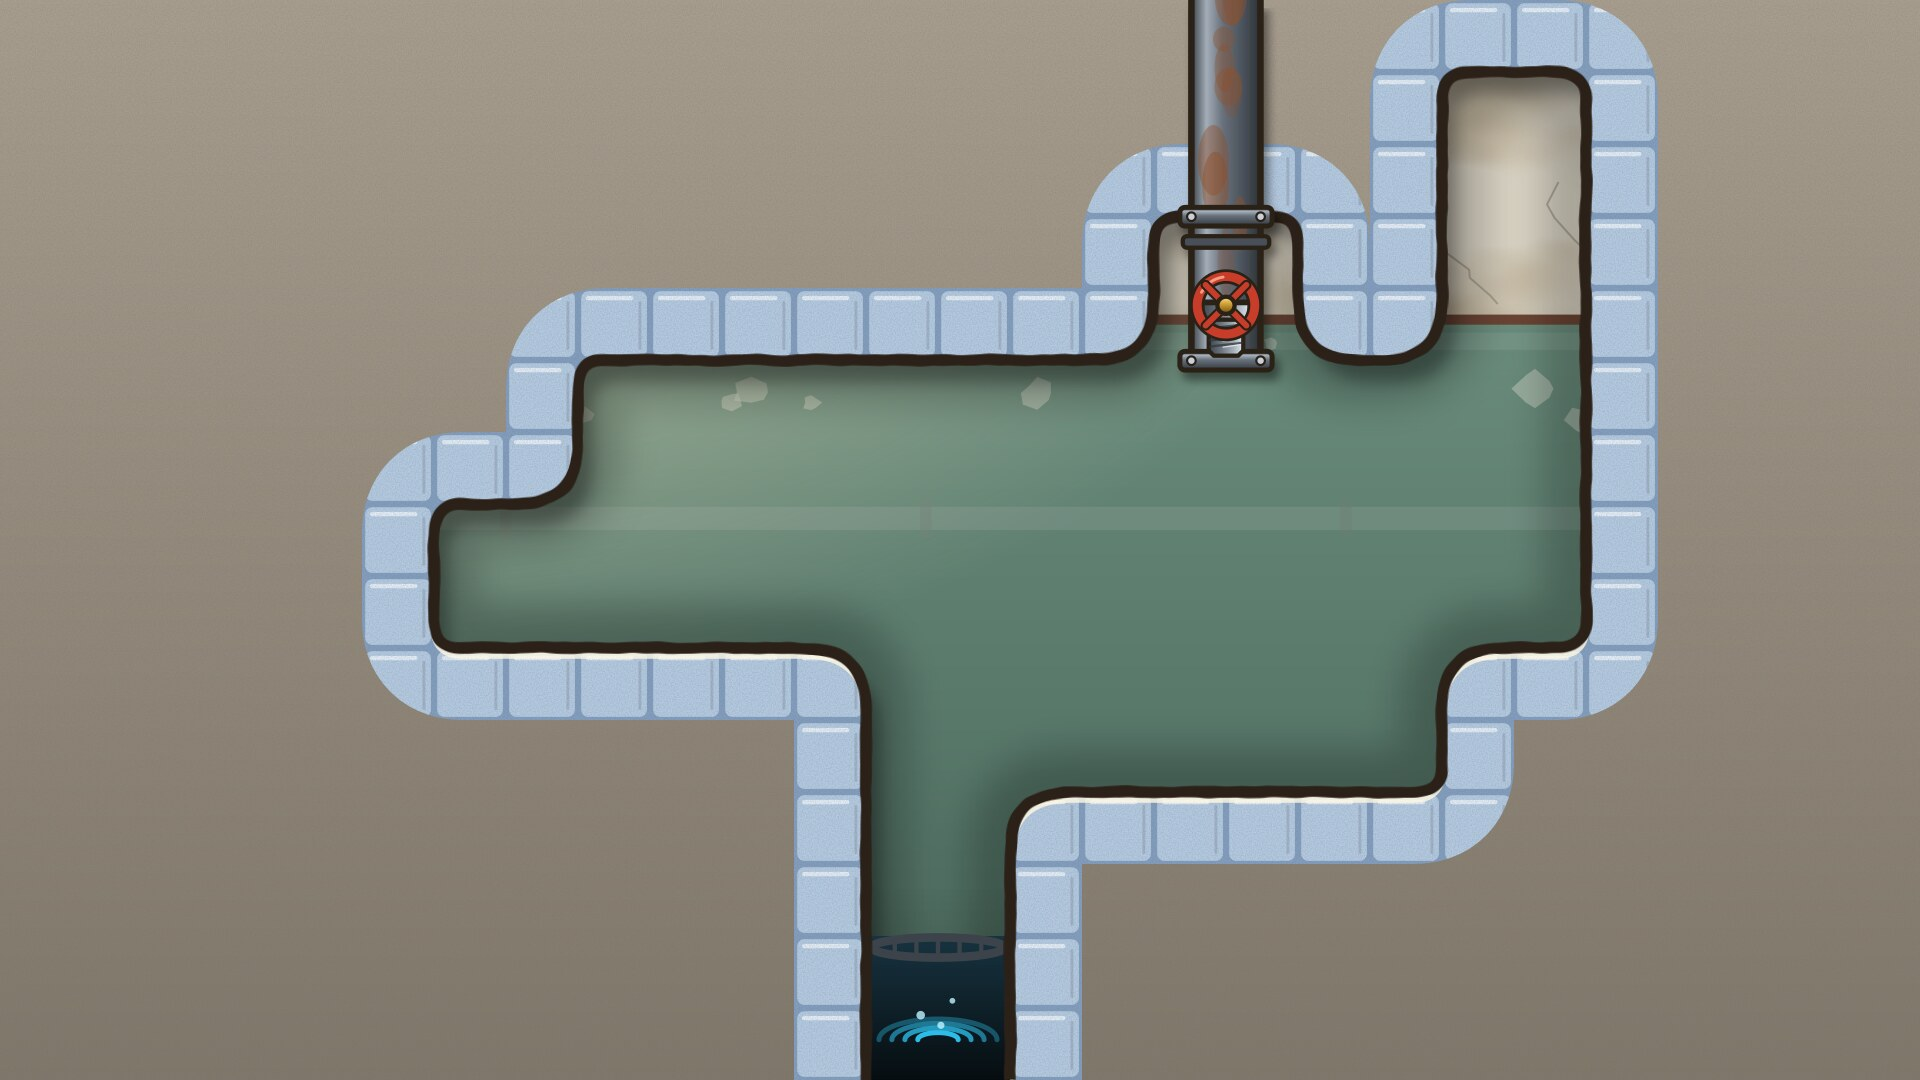
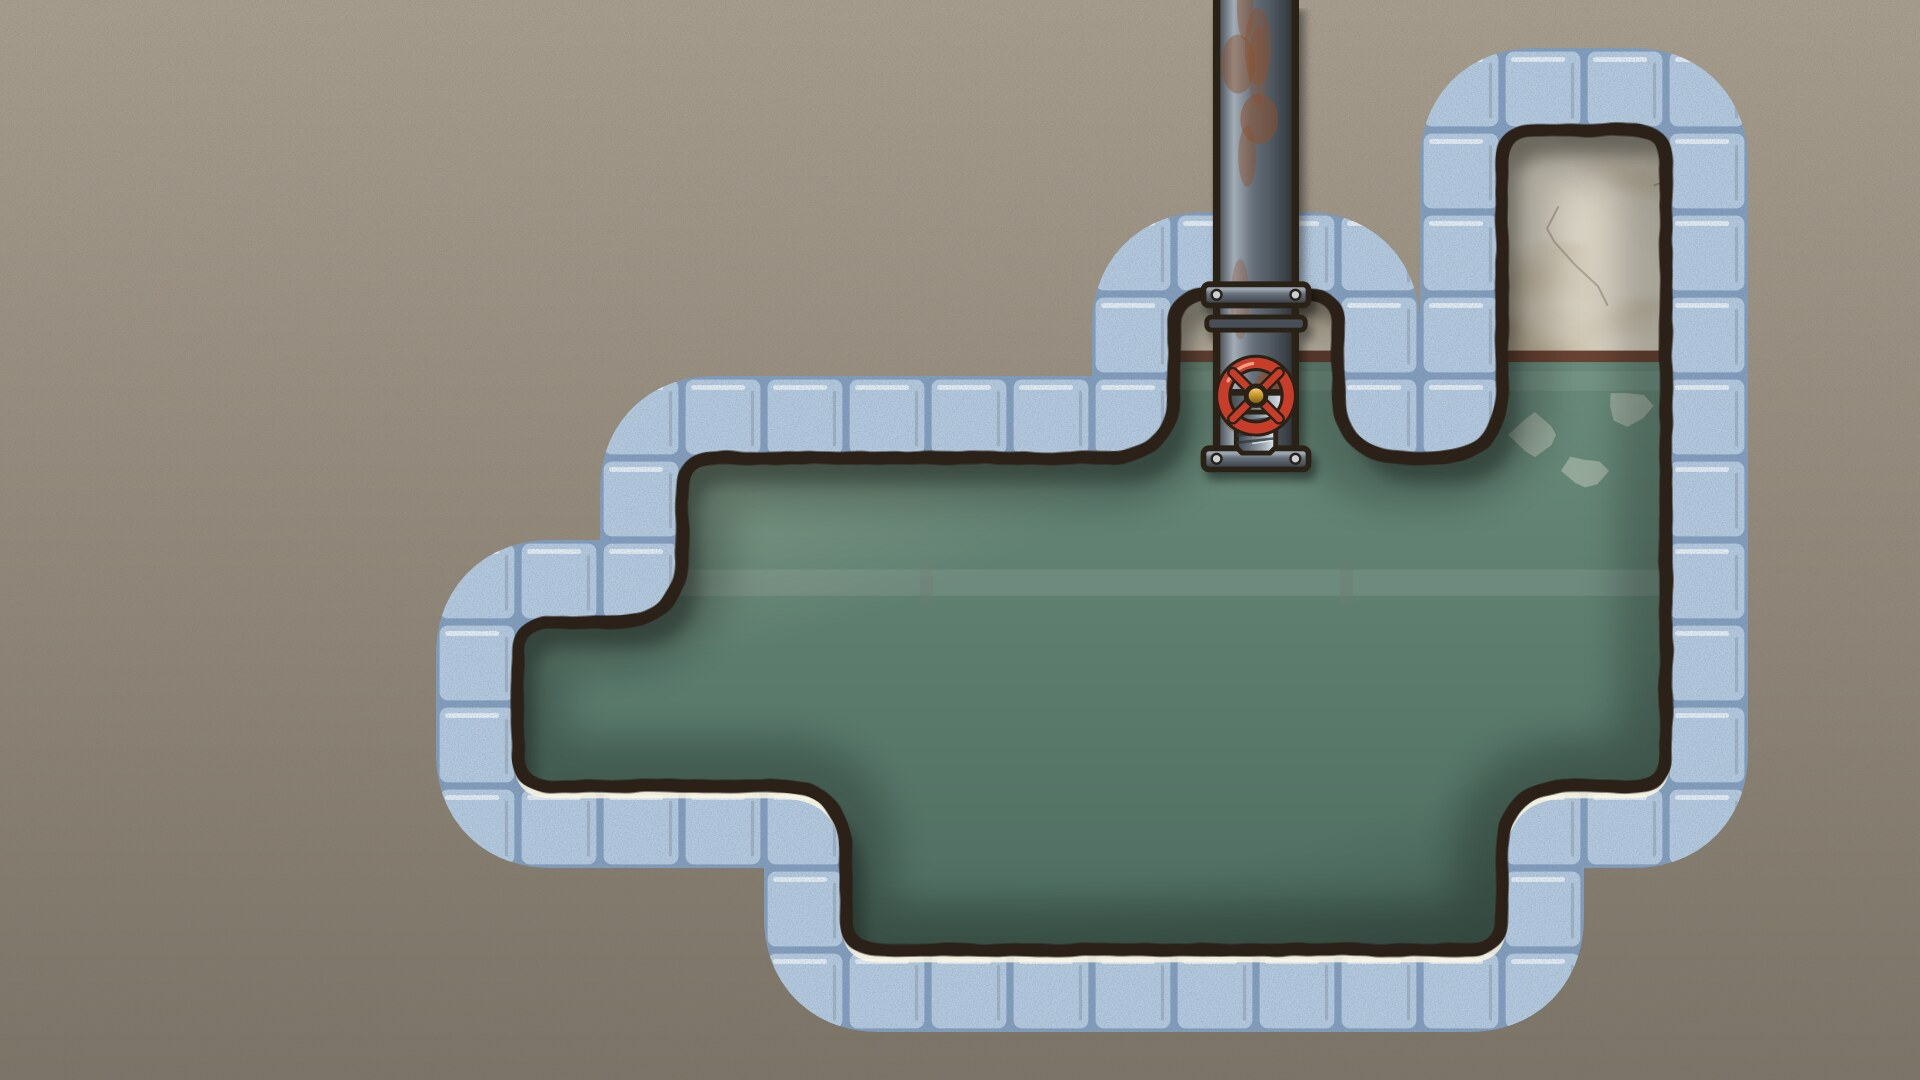
Установлена кв. 8 «Гусеница» r13 (скептик: принять): без мыла, пересадка в кармане колонки, 22 хода
Claude-Session: https://claude.ai/code/session_01KTF9zcDbthXae1taWntBSd

diff --git a/build/p6/fin/gen.py b/build/p6/fin/gen.py
@@ -1,0 +1,36 @@
+#!/usr/bin/env python3
+# build/p6/fin/gen.py имя LEN "x,y;x,y;..."(голова первой) ряд1 ряд2 ...
+# Символы: # стена, ~ слив, . пусто, F колонка (вход справа, В), S стояк (выход влево, Н),
+#          c муфта (В|В), n ниппель (Н|Н), T глухой отвод (В вниз)  — остальное пусто
+import sys
+name, ln, lap = sys.argv[1], sys.argv[2], sys.argv[3]
+rows = sys.argv[4:]
+objs, grid = [], []
+for y, r in enumerate(rows, 1):
+    g = ''
+    for x, ch in enumerate(r, 1):
+        if ch in '#~.':
+            g += ch; continue
+        g += '.'
+        if ch == 'F': objs.append('{ kind = "fixture", what = "heater", at = { %d, %d }, ports = { right = "V" } }' % (x, y))
+        elif ch == 'G': objs.append('{ kind = "fixture", what = "heater", at = { %d, %d }, ports = { left = "V" } }' % (x, y))
+        elif ch == 'S': objs.append('{ kind = "source", at = { %d, %d }, ports = { left = "N" } }' % (x, y))
+        elif ch == 'Z': objs.append('{ kind = "source", at = { %d, %d }, ports = { right = "N" } }' % (x, y))
+        elif ch == 'c': objs.append('{ kind = "fitting", what = "coupling", tag = "cpl", at = { %d, %d }, ports = { left = "V", right = "V" } }' % (x, y))
+        elif ch == 'n': objs.append('{ kind = "fitting", what = "nipple", tag = "nip", at = { %d, %d }, ports = { left = "N", right = "N" } }' % (x, y))
+        elif ch == 'p': objs.append('{ kind = "porcelain", what = "soap", tag = "soap", at = { %d, %d } }' % (x, y))
+        else: raise SystemExit('bad char ' + ch)
+    grid.append(g)
+cells = ', '.join('{ %s }' % c.replace(',', ', ') for c in lap.split(';'))
+lo, hi = ln.split(',')
+open(name + '.lua', 'w', encoding='utf-8').write('''return {
+  id = 10, flat = 10, name = "%s", length = { %s, %s }, pressure = 0, tile = "mustard",
+  grid = {
+%s
+  },
+  objects = {
+%s
+    { kind = "lapidus", cells = { %s }, head = 1 },
+  },
+}
+''' % (name, lo, hi, '\n'.join('    "%s",' % g for g in grid), '\n'.join('    %s,' % o for o in objs), cells))

diff --git a/reports/metrics.md b/reports/metrics.md
@@ -13,7 +13,7 @@
 | 5 | «Резьба» | 9×9 | 2–4 | 0 | 9539 (≤ 300000) | 23 (15–40) | 79.6% (≥ 40%) | 1 (≥ 2) | 1 | 0.1 % | 66 (7) | без муфты: нерешаем ✓; без ниппеля: нерешаем ✓; без угольника: нерешаем ✓; по одной нельзя: нерешаем ✓ | ⚠ мало ложных веток; широкий коридор решений (7) |
 | 6 | «Звено» | 10×9 | 4–5 | 0 | 3717 (≤ 100000) | 29 (15–40) | 61.7% (≥ 40%) | 2 (≥ 2) | 1 | 0 % | 2 (2) | без муфты: нерешаем ✓; без ниппеля: нерешаем ✓; на муфту не встают: нерешаем ✓; муфта не стоит под лазом: нерешаем ✓; муфта с самого начала на стояке: нерешаем ✓; без ниши в шахту: нерешаем ✓ | ✅ |
 | 7 | «Мыло» | 11×8 | 2–5 | 0 | 4034 (≤ 100000) | 30 (15–40) | 82.3% (≥ 35%) | 6 (≥ 2) | 1 | 0 % | 6 (3) | без фаянса: нерешаем ✓; подставку не выбить: нерешаем ✓; мыло на мыло не ляжет: нерешаем ✓; мост запрещён: нерешаем ✓; подъёмник запрещён: нерешаем ✓; мыло не ляжет на голову: нерешаем ✓ | ✅ |
-| 8 | «Гусеница» | 10×8 | 2–5 | 0 | 8134 (≤ 100000) | 29 (15–40) | 83.2% (≥ 25%) | 13 (≥ 2) | 1 | 0 % | 120 (8) | без мыла: нерешаем ✓; без муфты: нерешаем ✓; везти на спине нельзя: нерешаем ✓; мимо стояка только верхом: нерешаем ✓ | ⚠ широкий коридор решений (8) |
+| 8 | «Гусеница» | 10×7 | 2–5 | 0 | 4953 (≤ 100000) | 22 (15–40) | 76.7% (≥ 25%) | 14 (≥ 2) | 1 | 0 % | 15 (5) | без муфты: нерешаем ✓; везти на спине нельзя: нерешаем ✓; мимо стояка только верхом: нерешаем ✓; пересадки нет: нерешаем ✓ | ⚠ широкий коридор решений (5) |
 | 9 | «Домкрат» | 9×9 | 3–6 | 0 | 26288 (≤ 300000) | 32 (15–45) | 80.9% (≥ 40%) | 12 (≥ 2) | 1 | 0 % | 4 (2) | без заглушки: нерешаем ✓; без тройника: нерешаем ✓; тройник не поднимают: нерешаем ✓; заглушку не поднимают: нерешаем ✓; тройник сразу на стояке: нерешаем ✓; заглушка сразу на тройнике: нерешаем ✓; без лаза: нерешаем ✓ | ✅ |
 | 10 | «Намертво» | 11×5 | 3–5 | 0 | 30969 (≤ 1000000) | 23 (15–40) | 86.2% (≥ 50%) | 10 (≥ 3) | 1 | 0 % | 2 (2) | без ниппеля: нерешаем ✓; без муфты: нерешаем ✓; пара не держит муфту над сливом: нерешаем ✓; ниппель не переходит муфту поверху: нерешаем ✓ | ✅ |
 

diff --git a/WALKTHROUGH_SPOILERS.md b/WALKTHROUGH_SPOILERS.md
@@ -41,11 +41,11 @@
 11. Н→  12. Н↑  13. Н→  14. Н→  15. Н↓  16. Н←  17. Н←  18. Н←  19. Н↑  20. Н→  
 21. Н→  22. Н→  23. Н↑  24. Н↑  25. Н↑  26. Н↑  27. Н→  28. Н→  29. Н→  30. Н↓  
 
-## Кв. 8 · «Гусеница» — 29 ходов
+## Кв. 8 · «Гусеница» — 22 ходов
 
-1. Н→  2. Н→  3. Г→  4. Г↑  5. Г→  6. Н→  7. Н→  8. Н↑  9. Г↑  10. Г→  
-11. Н→  12. Н→  13. Н↑  14. Г↑  15. Г→  16. Н→  17. Г↓  18. Г→  19. Г↑  20. Г→  
-21. Н↑  22. Н→  23. Г→  24. Г→  25. Г↑  26. Г←  27. Г↑  28. Г→  29. Н↑  
+1. Н→  2. Н↑  3. Г→  4. Н→  5. Г→  6. Н↓  7. Н→  8. Н↑  9. Н→  10. Г→  
+11. Н↓  12. Н→  13. Н↑  14. Н→  15. Г↑  16. Г←  17. Г↑  18. Н→  19. Н↑  20. Н→  
+21. Г→  22. Н↑  
 
 ## Кв. 9 · «Домкрат» — 32 ходов
 
